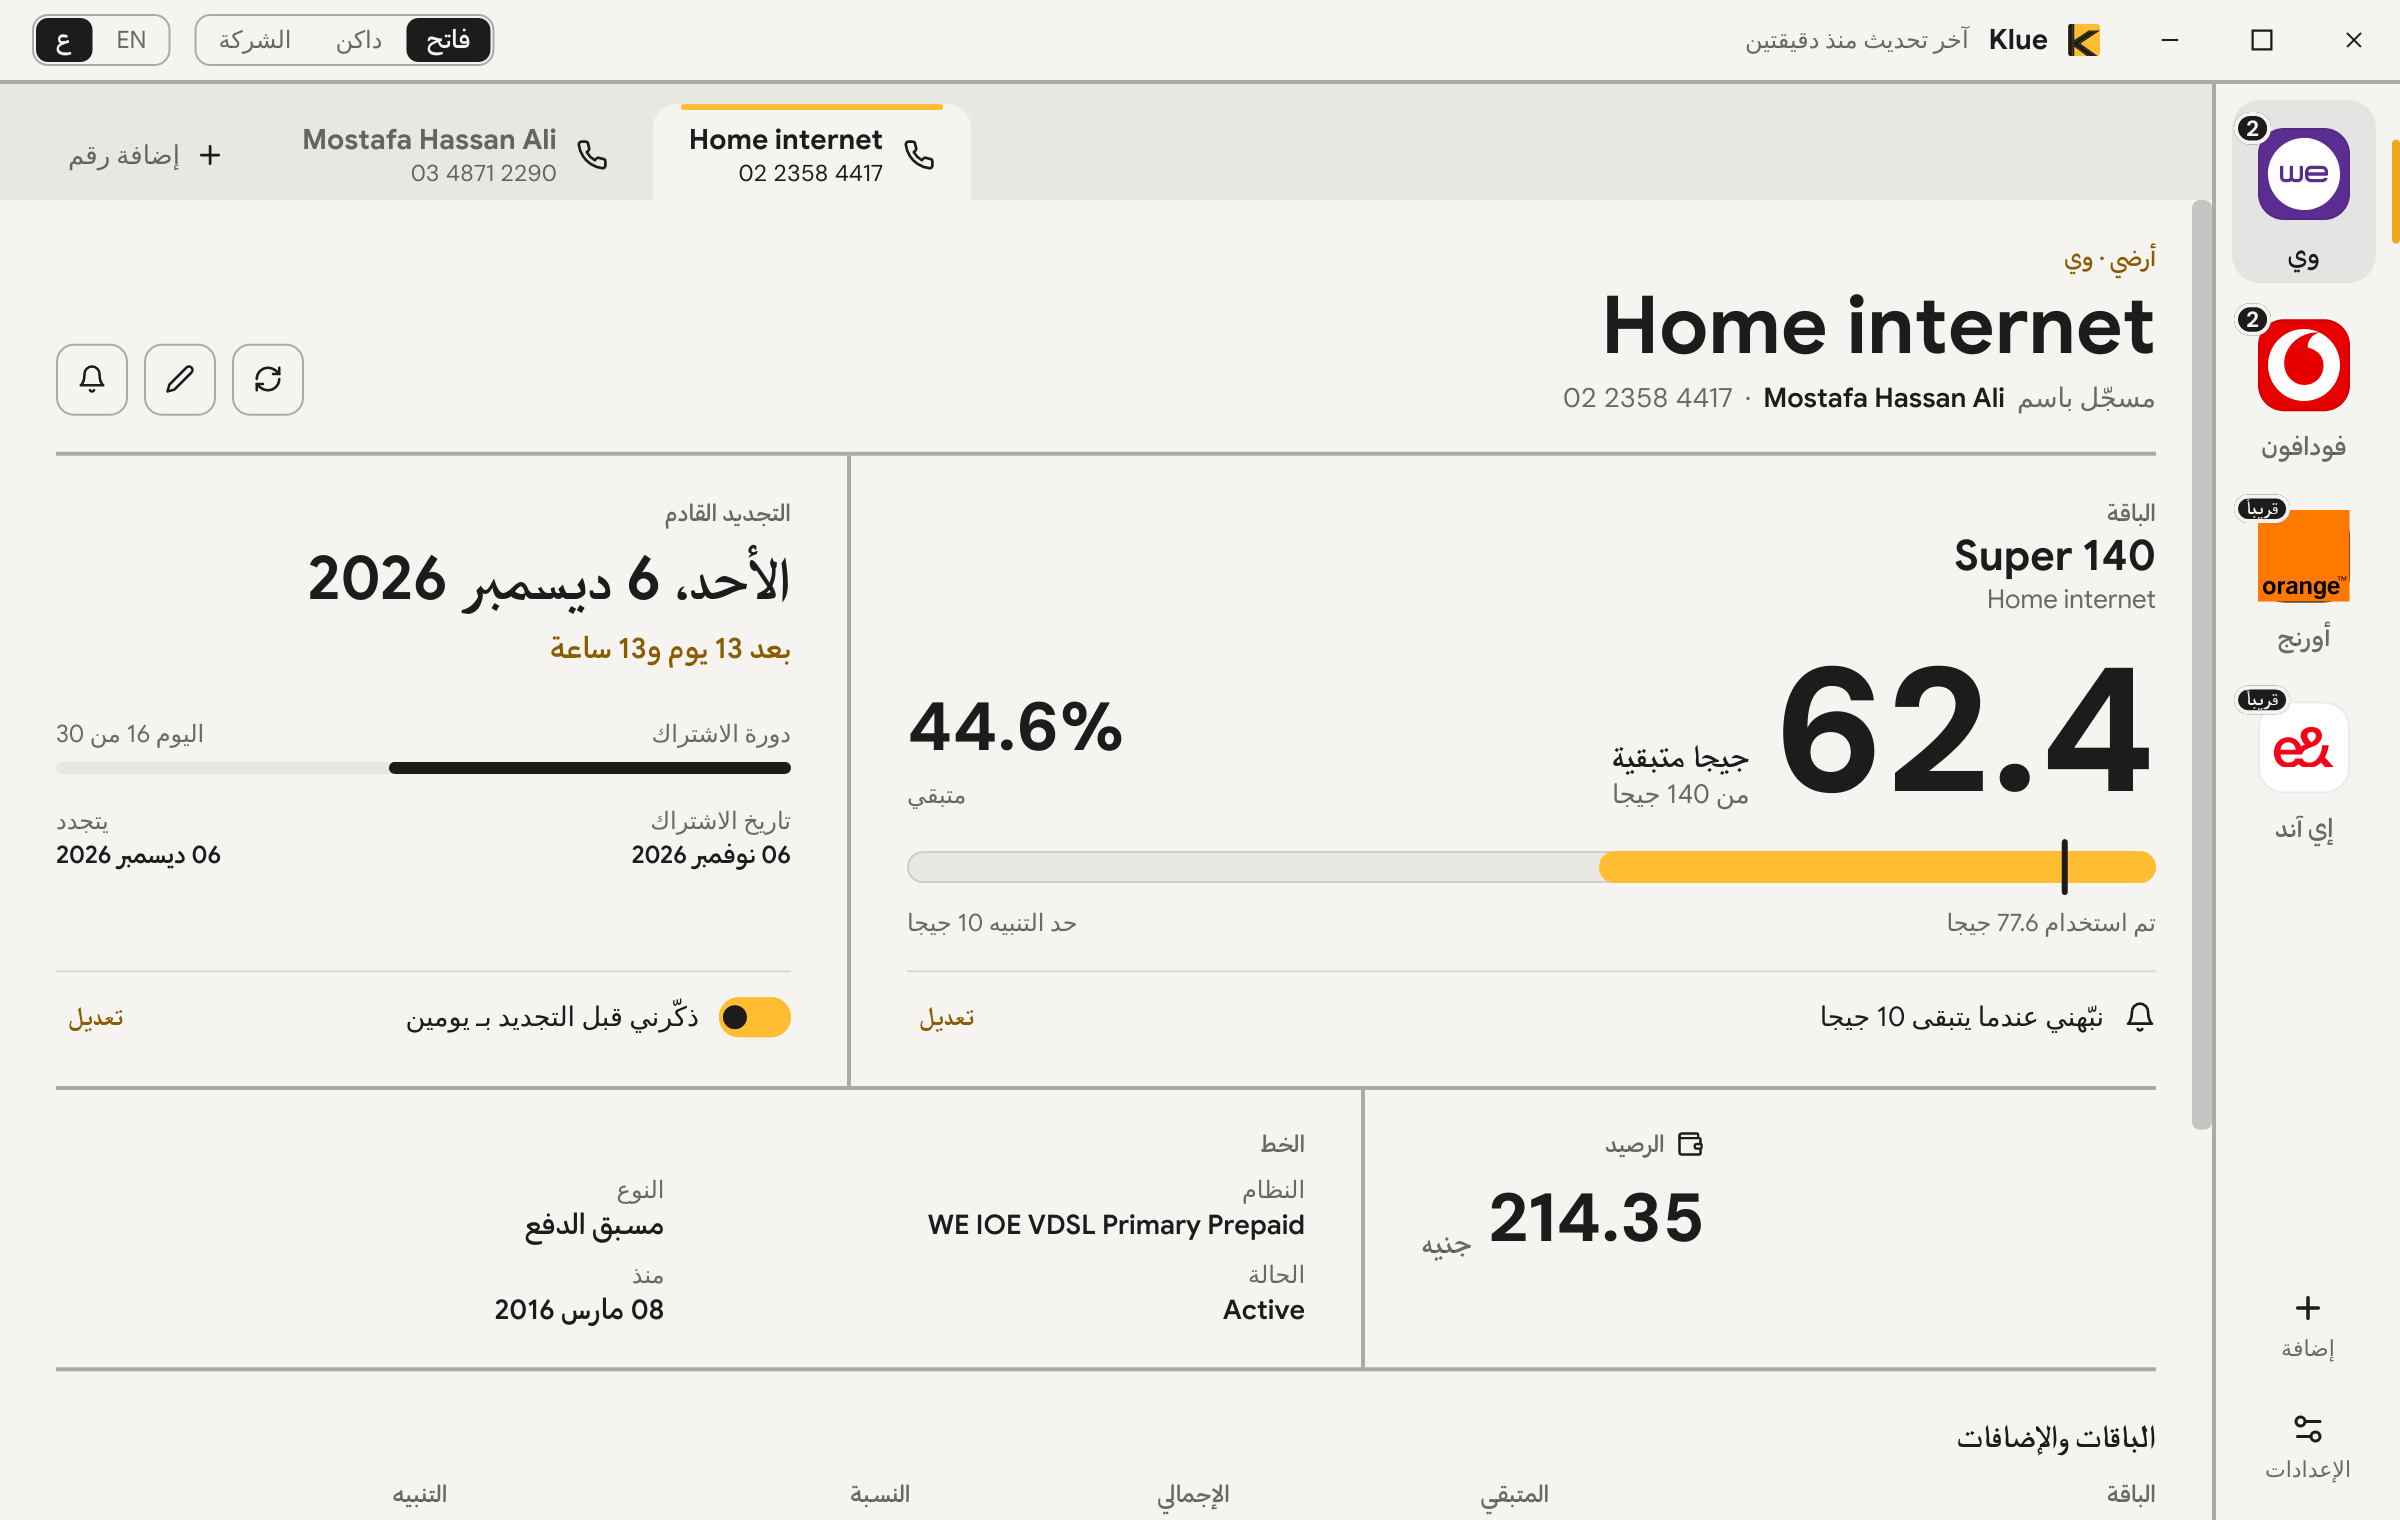
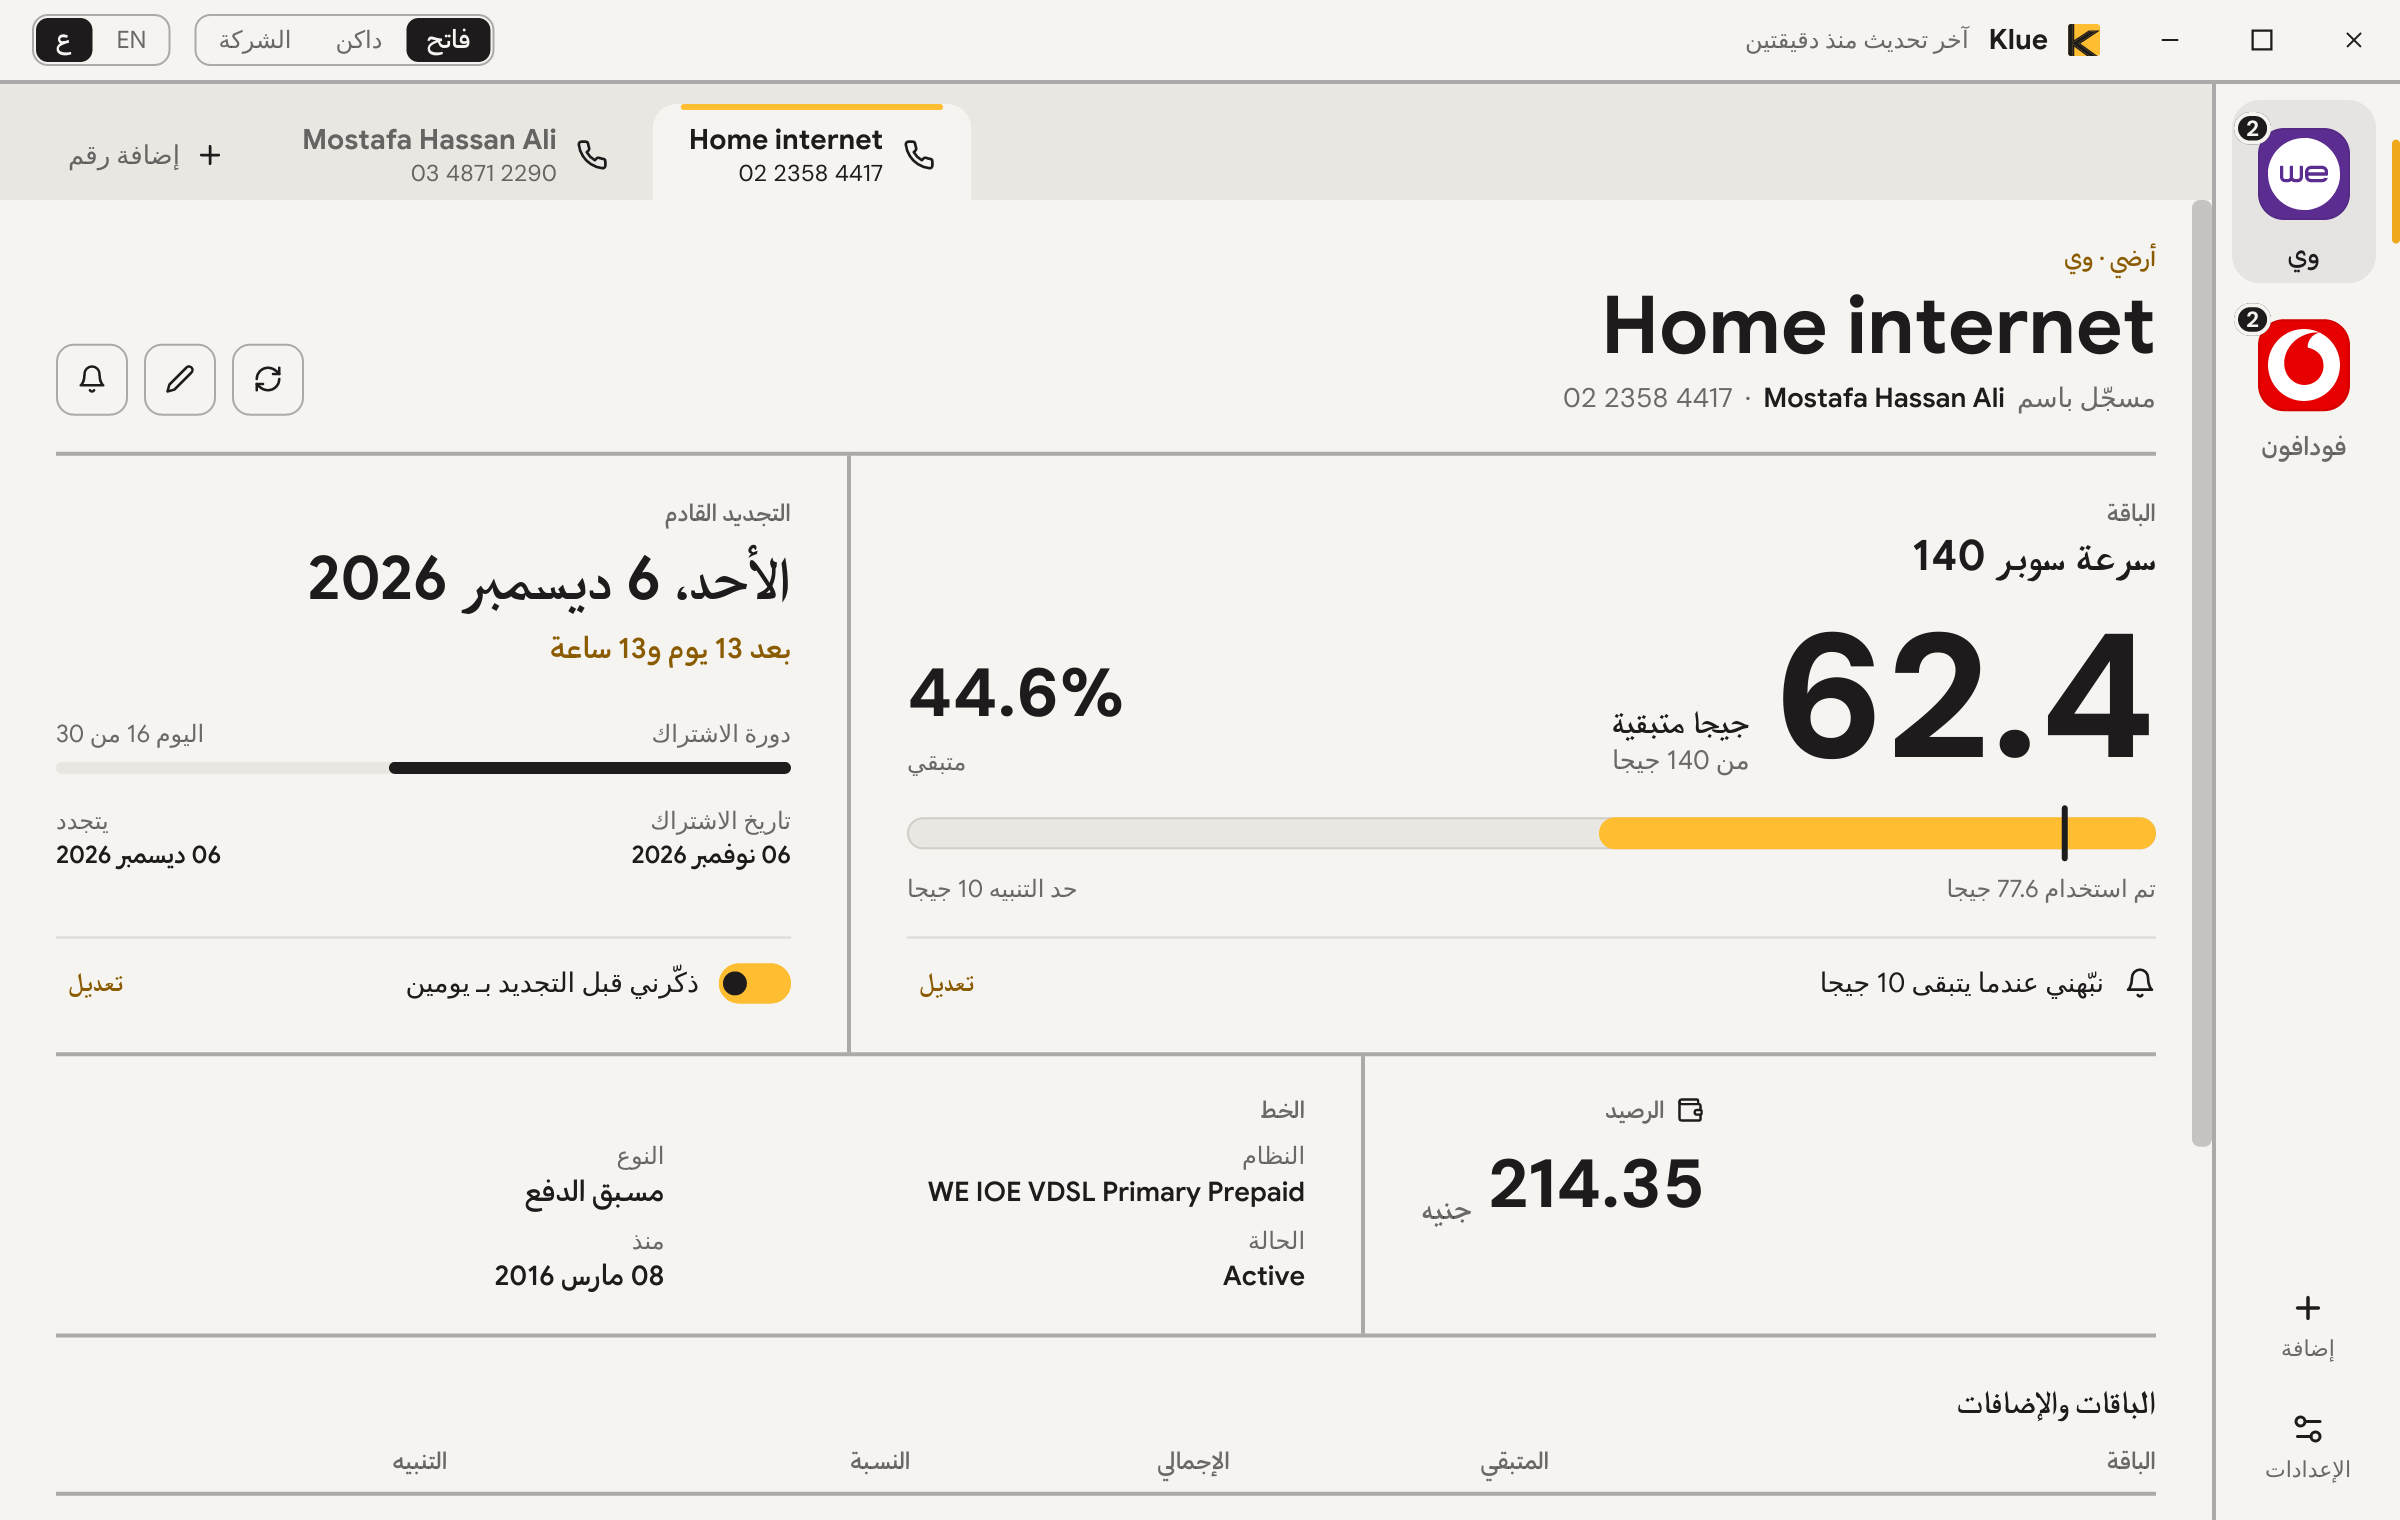
Re-take the README screenshots; keep tray rows on one line
The rail lists only carriers with numbers now, so every screenshot is
re-taken from the demo. The coming-soon one is replaced by a Vodafone
Flex line with a borrowed bundle. The README mentions both changes and
the Arabic names.

The tray popup's frame lines take 1 px on each side, which made the
longest row wrap; its side padding is 1 px less to keep the old metrics,
and a phone number in a row no longer breaks across lines.

diff --git a/crates/klue-app/src/ui/popup.rs b/crates/klue-app/src/ui/popup.rs
@@ -11,6 +11,9 @@ use klue_core::{BundleState, Carrier, format};
 use super::{Ctx, El, hline, tile, vline};
 use crate::{app::{App, Message}, assets::Icon, i18n, theme};
 
+/// Side padding: the mockup's 16 px less the 1 px frame line beside it.
+const SIDE: f32 = 15.0;
+
 pub fn view(app: &App) -> El<'_> {
     let ctx = Ctx::new(app, Carrier::We, true);
     let p = ctx.p;
@@ -49,7 +52,9 @@ pub fn view(app: &App) -> El<'_> {
                 })
             });
             let frozen = main.is_some_and(|m| m.state == BundleState::Frozen);
-            let sub = [state.or(renews), Some(account.pretty_number())].into_iter().flatten().collect::<Vec<_>>().join(" · ");
+            // A line too long for the row breaks after the "·", never inside the number.
+            let number = account.pretty_number().replace(' ', "\u{a0}");
+            let sub = [state.or(renews), Some(number)].into_iter().flatten().collect::<Vec<_>>().join(" · ");
             let text = column![ctx.semi(account.display_name(), 13.5), ctx.muted(sub, 11.5)].spacing(0).align_x(ctx.start()).width(Length::Fill);
             let right: El<'_> = match main {
                 Some(m) => column![
@@ -69,14 +74,14 @@ pub fn view(app: &App) -> El<'_> {
             };
             let content = ctx.row(vec![tile(account.carrier, 34.0, t.tray, 10.0, false), text.into(), right]).spacing(12);
             column![
-                button(container(content).padding([11, 16])).padding(0).width(Length::Fill).style(theme::plain(p.sf, None, 0.0)).on_press(Message::ShowMain(Some(account.id.clone()))),
+                button(container(content).padding([11.0, SIDE])).padding(0).width(Length::Fill).style(theme::plain(p.sf, None, 0.0)).on_press(Message::ShowMain(Some(account.id.clone()))),
                 hline(p.dvs, 1.0)
             ]
             .into()
         })
         .collect();
     let list: El<'_> = if rows.is_empty() {
-        container(ctx.muted(s.tray_empty, 13.0)).padding([24, 16]).into()
+        container(ctx.muted(s.tray_empty, 13.0)).padding([24.0, SIDE]).into()
     } else {
         super::smooth::smooth(scrollable(column(rows)).style(theme::scroller(p)).height(Length::Fill))
     };
@@ -85,7 +90,7 @@ pub fn view(app: &App) -> El<'_> {
     let settings = ctx.tool(Icon::Sliders, s.settings, Some(Message::PopupSettings), false);
     let foot = ctx.row(vec![open.into(), settings]).spacing(8).align_y(Alignment::Center);
 
-    let panel = column![container(head).padding([12, 16]), hline(p.dv, 2.0), container(list).height(Length::Fill), hline(p.dv, 2.0), container(foot).padding([12, 16])]
+    let panel = column![container(head).padding([12.0, SIDE]), hline(p.dv, 2.0), container(list).height(Length::Fill), hline(p.dv, 2.0), container(foot).padding([12.0, SIDE])]
         .width(Length::Fill)
         .height(Length::Fill);
     // The window is cleared to `p.bg` (see `App::theme`); the 1 px frame is four lines

diff --git a/README.md b/README.md
@@ -13,14 +13,14 @@ A desktop app that puts the quota, package and renewal date of all your Egyptian
 
 ## Features
 
-- One tab per number, grouped by carrier. Each number shows its registered owner, an optional nickname, the package, what's left in each bucket in the bucket's own unit (GB, MB, minutes, units), the subscription date and the next renewal.
+- One tab per number, grouped by carrier; only carriers you have numbers with are listed. Each number shows its registered owner, an optional nickname, the package, what's left in each bucket in the bucket's own unit (GB, MB, minutes, units), the subscription date and the next renewal.
 - The balance in EGP, the line's plan, payment type and status, and the payment history (WE recharges and Vodafone payments).
 - A Vodafone Flex bundle renewed on credit is marked borrowed, with the date to pay by before Vodafone freezes it, or frozen once it has; what the line owes shows under the balance.
 - The main quota is the largest bucket that isn't empty. Any other bucket can be made the main one with its star.
 - Quota alerts at X GB or X% left, per bundle, and a renewal reminder X days or hours before renewal. Both arrive as desktop notifications.
 - Adding a number signs in with the carrier's own password, checks it, and fills in the owner name from the account.
 - Light, Dark and Match themes. Match recolors the app with each carrier's brand colors.
-- English and Arabic, with a fully mirrored right-to-left layout. Fonts are DM Sans and Google Sans, bundled with the app.
+- English and Arabic, with a fully mirrored right-to-left layout. In Arabic, packages and plans carry the carrier's own Arabic names where it has them (WE's package names, Vodafone's plans and Flex); bundles the carriers only name in English stay in English. Fonts are DM Sans and Google Sans, bundled with the app.
 - A tray icon with a quick-view popup that closes when you click elsewhere. Closing the window leaves Klue in the tray and frees the window's memory. Optional launch at startup, minimized to the tray.
 - One Klue at a time: launching it again brings the running one forward.
 - Passwords live in the OS credential store (Windows Credential Manager, macOS Keychain or Secret Service), never in Klue's data file. Each is saved under the service `Klue` and the account `<carrier>:<number>` (for example `we:0223584417`), so any version of Klue finds it, and the list of your numbers is kept there too: an update or reinstall that starts with an empty data folder brings them back.
@@ -30,7 +30,7 @@ A desktop app that puts the quota, package and renewal date of all your Egyptian
 | ![Match theme, low quota](docs/screenshots/match-we-low-quota.png) | ![Dark theme, Vodafone](docs/screenshots/dark-vodafone.png) |
 | ![Balance, bundles and payments](docs/screenshots/vodafone-balance-payments.png) | ![Arabic](docs/screenshots/arabic-rtl.png) |
 | ![Add a number](docs/screenshots/add-number-verified.png) | ![Alerts](docs/screenshots/alerts.png) |
-| ![Coming soon](docs/screenshots/coming-soon.png) | <img src="docs/screenshots/tray-quick-view.png" alt="Tray quick view" width="240"> |
+| ![Borrowed Flex bundle](docs/screenshots/vodafone-flex-borrowed.png) | <img src="docs/screenshots/tray-quick-view.png" alt="Tray quick view" width="240"> |
 
 ## Download
 
